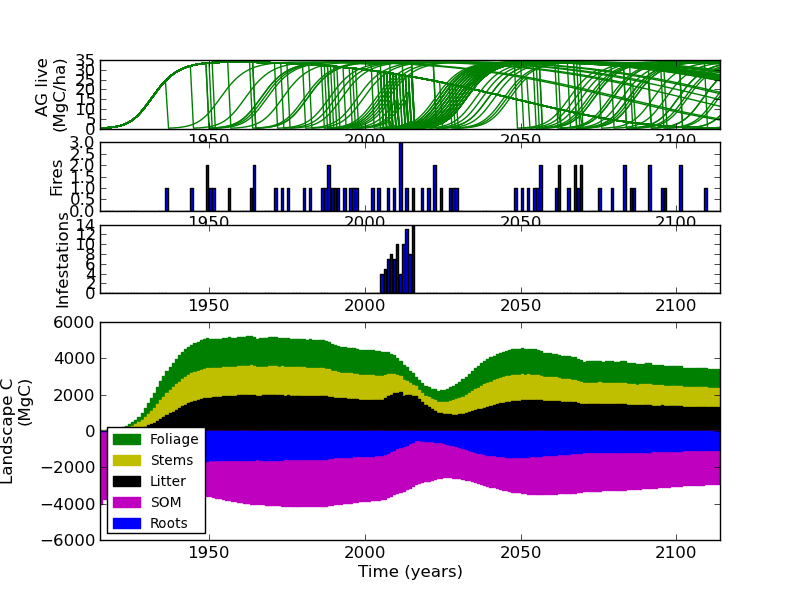
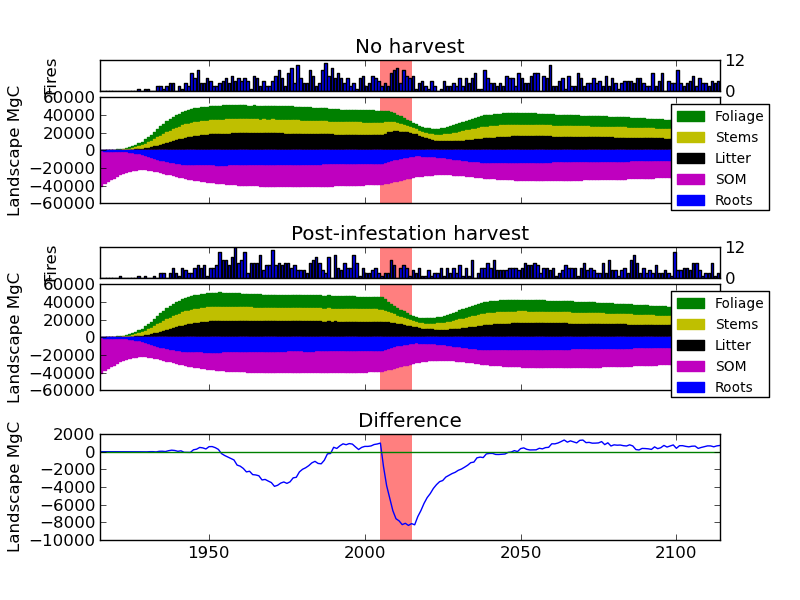
Added harvested-vs-unharvested comparison capabilities.

diff --git a/dynamics.py b/dynamics.py
@@ -4,6 +4,7 @@ considering stand growth and response to stochastic fire, insect, and harvest di
 """
 
 
+import matplotlib.gridspec as gridspec
 import matplotlib.pyplot as plt
 import numpy as np
 from random import *
@@ -115,8 +116,7 @@ def c_plot(plot_object, w_l_array, w_s_array, w_f_array, w_r_array, w_o_array, t
         plot_object.bar(time_vector, w_l_plot, label='Litter', color='k', edgecolor='k')
         plot_object.bar(time_vector, w_o_plot, label='SOM', color='m', edgecolor='m')
         plot_object.bar(time_vector, w_r_plot, label='Roots', color='b', edgecolor='b')
-        plot_object.ylabel(y_label)
-        plot_object.xlabel("Time (years)")
+        plot_object.legend(loc=9, bbox_to_anchor=(1.0, 1.0), prop={'size': 10})
 
 
 def unharvested_infestation(param_dictionary, state_dictionary):
@@ -147,7 +147,7 @@ def harvested_infestation(param_dictionary, state_dictionary):
     state_dictionary['w_o'].append(state_dictionary['w_o'][-1] + (state_dictionary['w_r'][-2] * microbial_efficiency))
     state_dictionary['LAI'].append(0)
     state_dictionary['interception'].append(0)
-    return (state_dictionary['w_f'][-1] + state_dictionary['w_s'][-1])
+    return state_dictionary['w_f'][-1] + state_dictionary['w_s'][-1]
 
 
 def fire(param_dictionary, state_dictionary):
@@ -235,6 +235,8 @@ while True:
         w_l = np.array(local_states['w_l'])
         w_o = np.array(local_states['w_o'])
         c_plot(plt, w_l, w_s, w_f, w_r, w_o, plot_years, "C pools\n(MgC/ha)")
+        plt.ylabel("Ecosystem C pools\n(MgC/ha)")
+        plt.xlabel("Time (years)")
         plt.xlim((0, simulation_length))
         plt.legend(prop={'size': 11})
         # do another set of simulations with disturbance included this time
@@ -272,94 +274,121 @@ while True:
 
     elif command == 'land':
         # time parameters
+        runs = 1000
         start_year = 1915
         simulation_length = 200
         simulation_years = range(start_year, start_year+simulation_length)
         plot_years = range(start_year, start_year+simulation_length+1)
+        fire_frequency = 200   # years to a stand-replacing fire
+        infest_start = 2005
+        infest_end = 2015
 
-        # initialize lists for total landscape carbon fractions
-        runs = 100
-        total_w_f = [0]
-        total_w_s = [0]
-        total_w_r = [0]
-        total_w_l = [0]
-        total_w_o = [0]
-        fires = [0]
-        infestations = [0]
-        for i in range(simulation_length):
-            total_w_f.append(0)
-            total_w_s.append(0)
-            total_w_r.append(0)
-            total_w_l.append(0)
-            total_w_o.append(0)
-            fires.append(0)
-            infestations.append(0)
+        # defining plot structure
+        gs = gridspec.GridSpec(13, 1)
+        ax1 = plt.subplot(gs[0, :])
+        plt.axvspan(infest_start, infest_end, color='r', alpha=0.5, lw=0)
+        ax1.set_title("No harvest")
+        ax2 = plt.subplot(gs[1:4, :])
+        plt.axvspan(infest_start, infest_end, color='r', alpha=0.5, lw=0)
+        ax3 = plt.subplot(gs[5, :])
+        plt.axvspan(infest_start, infest_end, color='r', alpha=0.5, lw=0)
+        ax3.set_title("Post-infestation harvest")
+        ax4 = plt.subplot(gs[6:9, :])
+        plt.axvspan(infest_start, infest_end, color='r', alpha=0.5, lw=0)
+        ax5 = plt.subplot(gs[10:, :])
+        plt.axvspan(infest_start, infest_end, color='r', alpha=0.5, lw=0)
+        ax5.set_title("Difference")
 
-        # for each specified stand run, create & initialize a new state variable dictionary, and run through simulation
-        # years computing 3-PG model steps and adding stochastic fire, beetle, and/or harvest events where appropriate
-        plt.subplot(6, 1, 1)
-        for run in range(runs):
-            print '\rSimulating stand %i of %i' % (run+1, runs),
-            # make a new initialized state variable dictionary
-            local_states = {'age': [states['age'][0]],
-                            'w_f': [states['w_f'][0]],
-                            'w_s': [states['w_s'][0]],
-                            'w_r': [states['w_r'][0]],
-                            'w_l': [states['w_l'][0]],
-                            'w_o': [states['w_o'][0]],
-                            'LAI': [states['LAI'][0]],
-                            'interception': [states['interception'][0]]
-                            }
-            # define stand starting age and stochstic variables
-            age = 0
-            fire_frequency = 200   # years to a stand-replacing fire
-            infest_start = 2005
-            infest_end = 2015
-            infest_risk = 0.8 / (infest_end - infest_start)
-            infested = False
-            j = 0
-            for year in simulation_years:
-                # implement infestation where appropriate.  No growth or fire occur in infestation years
-                rand = random()
-                if not infested and (infest_start <= year <= infest_end) and (rand <= infest_risk):
-                    age = 0
-                    unharvested_infestation(params, local_states)
-                    infestations[j] += 1
-                else:
-                    # if no infestation, proceed normally with stochistic fire events or 3-PG growth step
-                    fire_risk = (1.0/fire_frequency) * (local_states['w_l'][-1]/20)
+        axis_objs = [[ax1, ax2], [ax3, ax4]]
+        landscape_totals = []
+        max_fire_freq = []
+        for i in (0, 1):
+            # initialize lists for total landscape carbon fractions
+            total_w_f = [0]
+            total_w_s = [0]
+            total_w_r = [0]
+            total_w_l = [0]
+            total_w_o = [0]
+            fires = [0]
+            infestations = [0]
+            for k in range(simulation_length):
+                total_w_f.append(0)
+                total_w_s.append(0)
+                total_w_r.append(0)
+                total_w_l.append(0)
+                total_w_o.append(0)
+                fires.append(0)
+                infestations.append(0)
+
+            # for each specified stand run, create & initialize a new state variable dictionary, and run through simulation
+            # years computing 3-PG model steps and adding stochastic fire, beetle, and/or harvest events where appropriate
+            for run in range(runs):
+                print '\rSimulating stand %i of %i' % (run+1, runs),
+                # make a new initialized state variable dictionary
+                local_states = {'age': [states['age'][0]],
+                                'w_f': [states['w_f'][0]],
+                                'w_s': [states['w_s'][0]],
+                                'w_r': [states['w_r'][0]],
+                                'w_l': [states['w_l'][0]],
+                                'w_o': [states['w_o'][0]],
+                                'LAI': [states['LAI'][0]],
+                                'interception': [states['interception'][0]]
+                                }
+                # define stand starting age and stochstic variables
+                age = 0
+                infest_risk = 0.8 / (infest_end - infest_start)
+                infested = False
+                j = 0
+                for year in simulation_years:
+                    # implement infestation where appropriate.  No growth or fire occur in infestation years
                     rand = random()
-                    if rand <= fire_risk:
+                    if not infested and (infest_start <= year <= infest_end) and (rand <= infest_risk):
                         age = 0
-                        fire(params, local_states)
-                        fires[j] += 1
+                        if i == 0:
+                            unharvested_infestation(params, local_states)
+                        elif i == 1:
+                            harvested_infestation(params, local_states)
+                        infestations[j] += 1
                     else:
-                        three_PG(age, params, local_states)
-                    age += 1
-                j += 1
+                        # if no infestation, proceed normally with stochistic fire events or 3-PG growth step
+                        fire_risk = (1.0/fire_frequency) * (local_states['w_l'][-1]/20)
+                        rand = random()
+                        if rand <= fire_risk:
+                            age = 0
+                            fire(params, local_states)
+                            fires[j] += 1
+                        else:
+                            three_PG(age, params, local_states)
+                        age += 1
+                    j += 1
+                total_w_f += np.array(local_states['w_f'])
+                total_w_s += np.array(local_states['w_s'])
+                total_w_r += np.array(local_states['w_r'])
+                total_w_l += np.array(local_states['w_l'])
+                total_w_o += np.array(local_states['w_o'])
 
-            AGL = np.array(local_states['w_f']) + np.array(local_states['w_s'])
-            plt.plot(plot_years, AGL, color="g")
-            plt.xlim((simulation_years[0], simulation_years[-1]))
-            total_w_f += np.array(local_states['w_f'])
-            total_w_s += np.array(local_states['w_s'])
-            total_w_r += np.array(local_states['w_r'])
-            total_w_l += np.array(local_states['w_l'])
-            total_w_o += np.array(local_states['w_o'])
+            axis_objs[i][0].bar(plot_years, fires)
+            max_fire_freq.append(max(fires))
+            axis_objs[i][0].set_xlim((simulation_years[0], simulation_years[-1]))
+            axis_objs[i][0].set_xticklabels([])
+            axis_objs[i][0].yaxis.tick_right()
+            axis_objs[i][0].set_ylabel("Fires\n\n")
 
-        plt.ylabel("AG live\n(MgC/ha)")
-        plt.subplot(6, 1, 2)
-        plt.bar(plot_years, fires)
-        plt.xlim((simulation_years[0], simulation_years[-1]))
-        plt.ylabel("Fires")
-        plt.subplot(6, 1, 3)
-        plt.bar(plot_years, infestations)
-        plt.xlim((simulation_years[0], simulation_years[-1]))
-        plt.ylabel("Infestations")
-        plt.subplot(2, 1, 2)
-        c_plot(plt, total_w_l, total_w_s, total_w_f, total_w_r, total_w_o, plot_years, "Landscape C\n(MgC)")
-        plt.legend(loc=3, prop={'size': 10})
-        plt.xlim((simulation_years[0], simulation_years[-1]))
+            c_plot(axis_objs[i][1], total_w_l, total_w_s, total_w_f, total_w_r, total_w_o, plot_years, "")
+            axis_objs[i][1].set_xlim((simulation_years[0], simulation_years[-1]))
+            axis_objs[i][1].set_xticklabels([])
+            axis_objs[i][1].set_ylabel("Landscape MgC")
+
+            landscape_total = total_w_f + total_w_s + total_w_r + total_w_l + total_w_o
+            landscape_totals.append(landscape_total)
+
+        difference = landscape_totals[1] - landscape_totals[0]
+        ax5.plot(plot_years, difference)
+        ax5.plot((simulation_years[0], simulation_years[-1]), (0, 0))
+        ax5.set_ylabel("Landscape MgC")
+        ax5.set_xlim((simulation_years[0], simulation_years[-1]))
+        ax1.yaxis.set_ticks([0, max(max_fire_freq)])
+        ax3.yaxis.set_ticks([0, max(max_fire_freq)])
         plt.show()
 
     elif command == 'q':
